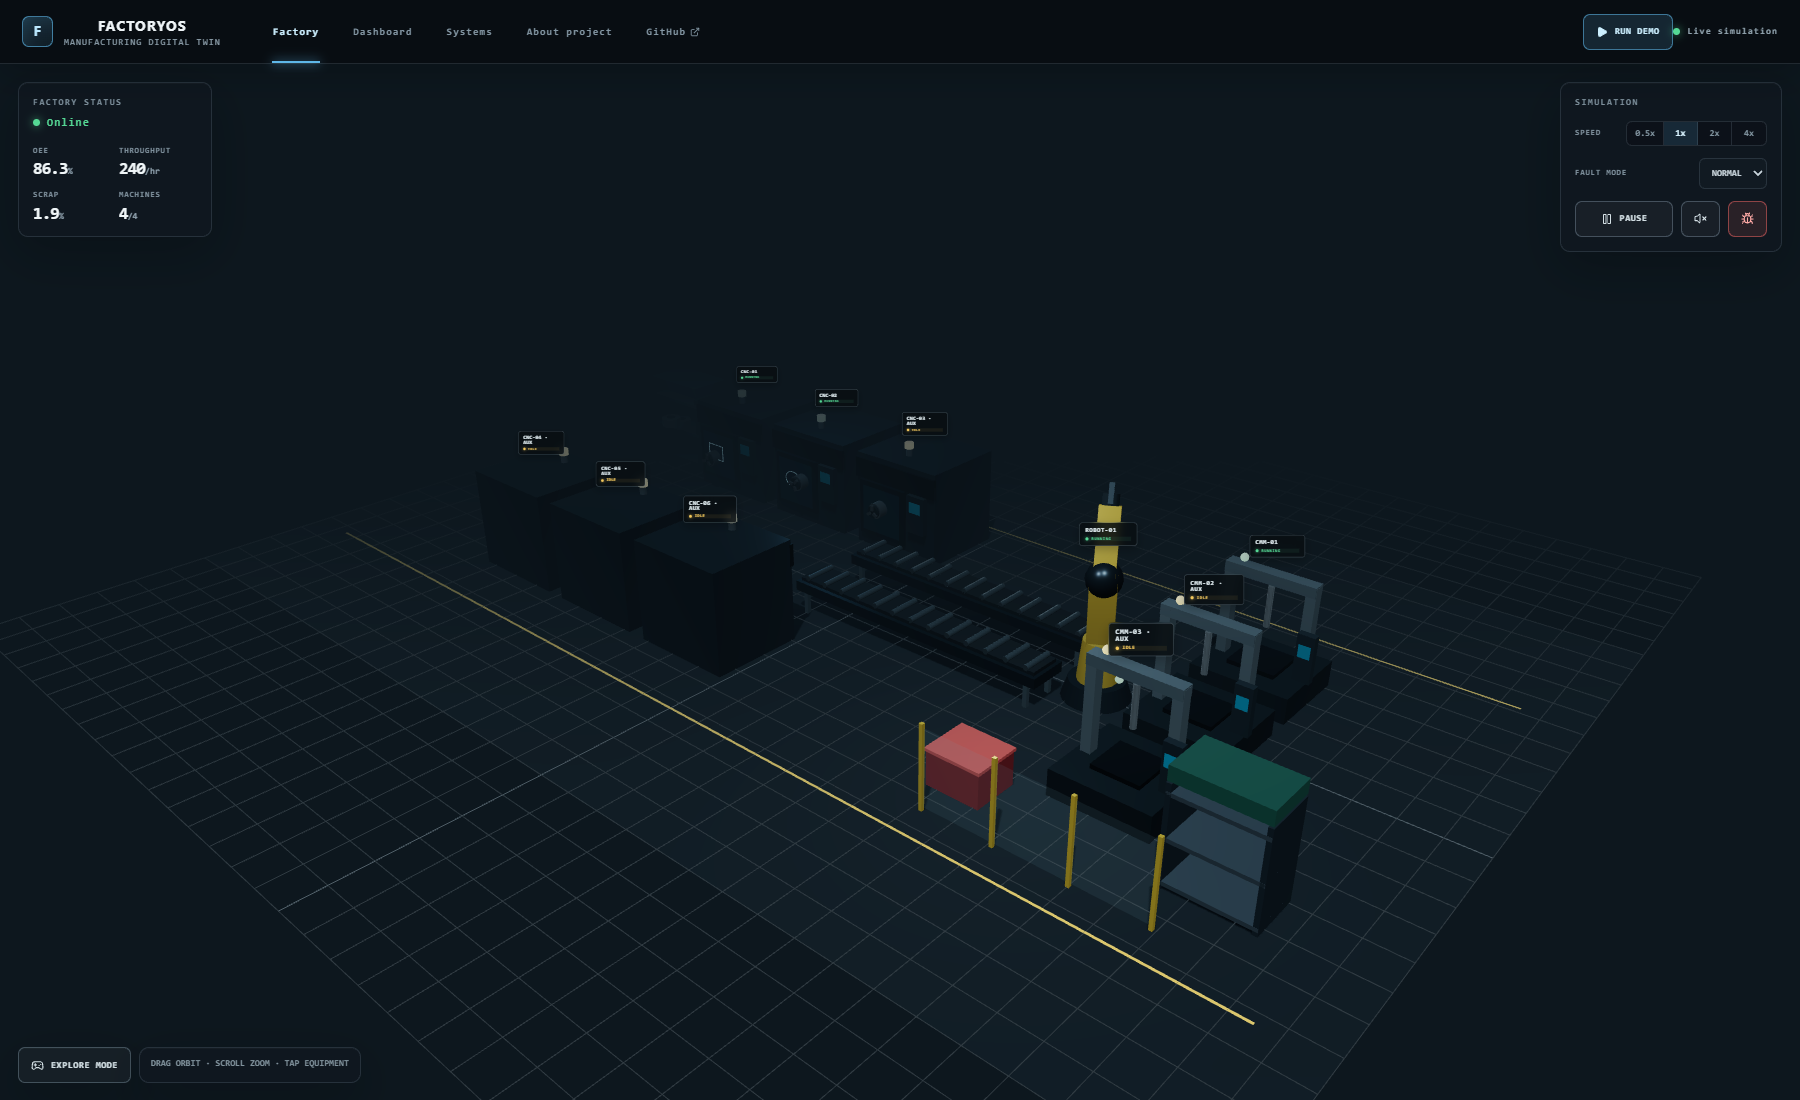
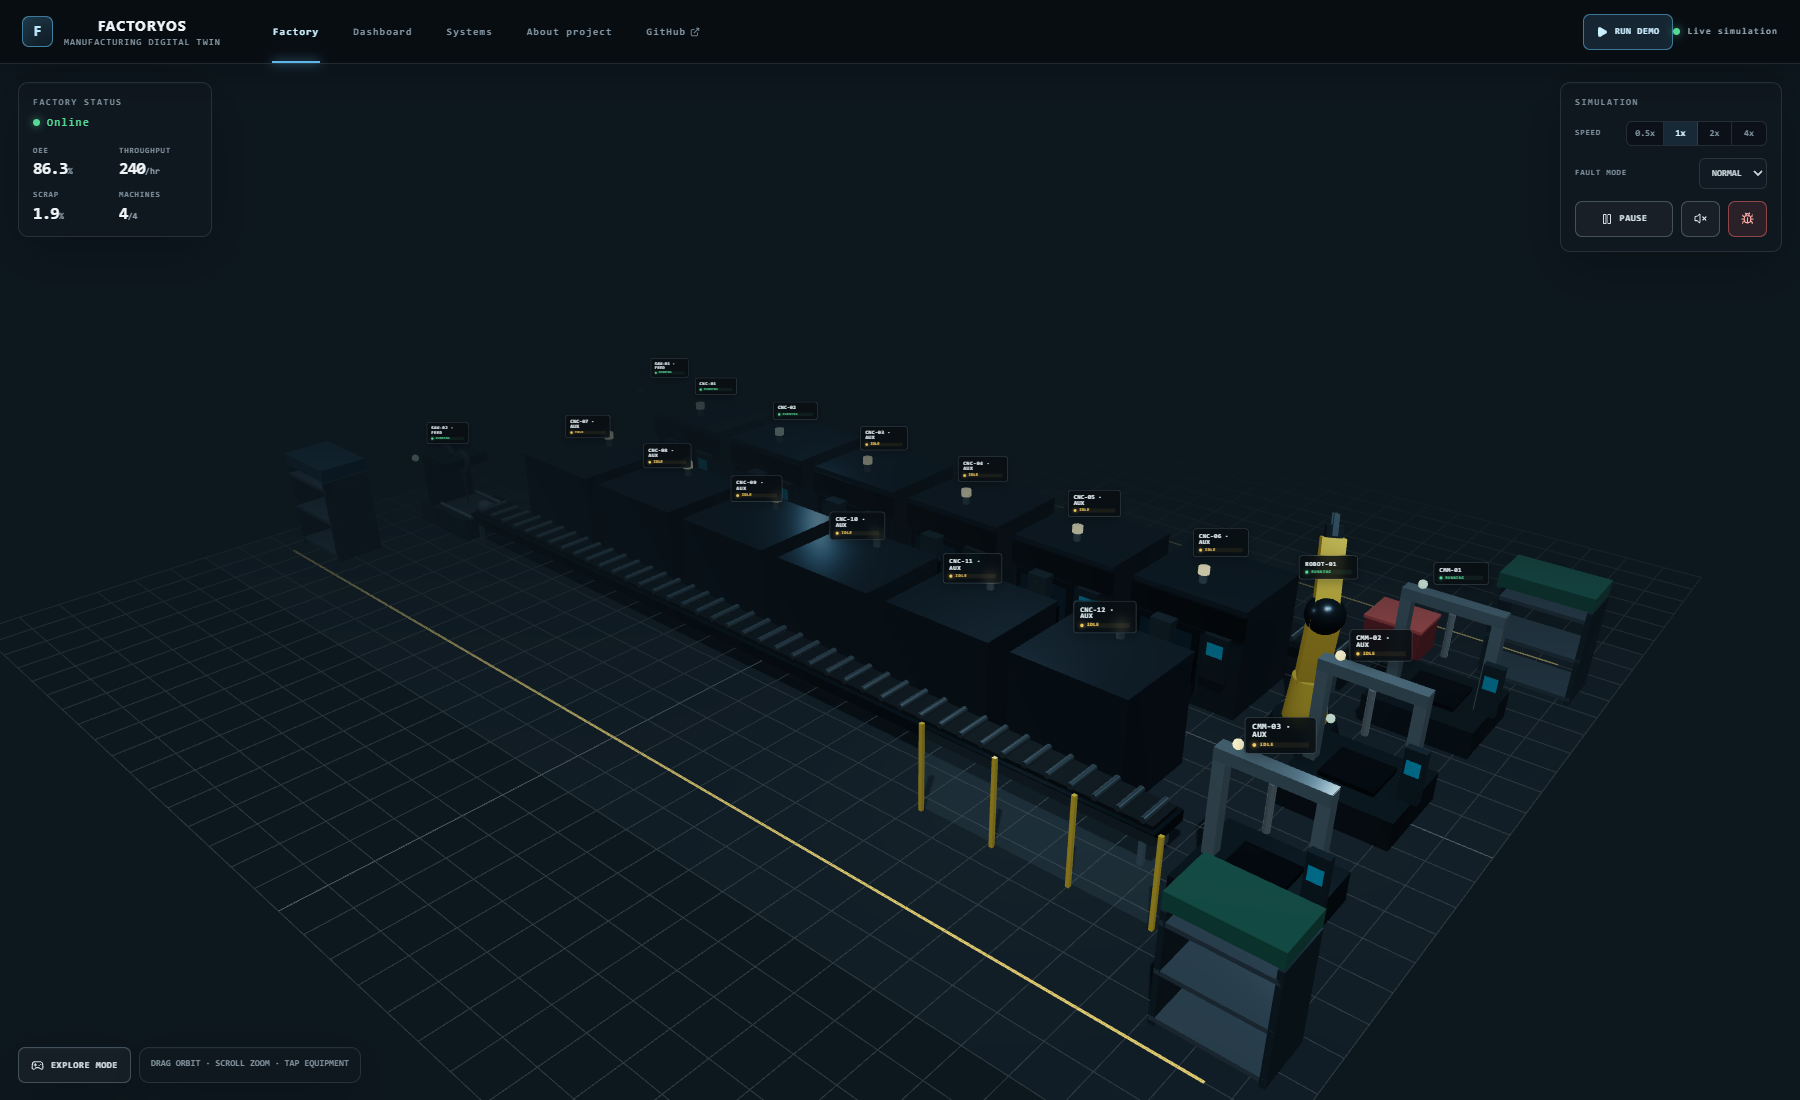
feat: arrange dual six-machine production lines

diff --git a/components/factory/CNC.tsx b/components/factory/CNC.tsx
@@ -10,13 +10,12 @@ import { useFactoryStore } from "@/store/useFactoryStore";
 import type { MachineId, MachineStatus } from "@/types/factory";
 
 const statusColor: Record<MachineStatus, string> = { RUNNING: "#42dc8b", IDLE: "#f0c555", FAULT: "#ff514b", MAINTENANCE: "#4baee7" };
-const chuckJawAngles = [0, (Math.PI * 2) / 3, (Math.PI * 4) / 3];
 const rectanglePath: [number, number, number][] = [
-  [-.77,1.13,1.575],[-.13,1.13,1.575],[-.13,1.63,1.575],[-.77,1.63,1.575],[-.77,1.13,1.575],
+  [-.77,.91,1.3],[-.13,.91,1.3],[-.13,.91,1.66],[-.77,.91,1.66],[-.77,.91,1.3],
 ];
 const circlePath: [number, number, number][] = Array.from({ length: 33 }, (_, index) => {
   const angle = (index / 32) * Math.PI * 2;
-  return [-.45 + Math.cos(angle) * .32, 1.38 + Math.sin(angle) * .25, 1.575];
+  return [-.45 + Math.cos(angle) * .32, .91, 1.48 + Math.sin(angle) * .18];
 });
 
 interface CncShellProps {
@@ -40,19 +39,19 @@ function CncShell({ label, status, position, rotationY = 0, selected = false, sp
       <mesh position={[-.44,1.25,1.39]} castShadow><boxGeometry args={[1.72,1.72,.12]} /><meshStandardMaterial color="#182329" metalness={.5} roughness={.26} /></mesh>
       <mesh position={[-.44,1.25,1.47]}><planeGeometry args={[1.42,1.42]} /><meshPhysicalMaterial color="#264655" transparent opacity={.42} roughness={.15} metalness={.2} /></mesh>
       {toolpath && <Line points={toolpath === "circle" ? circlePath : rectanglePath} color="#70d0f3" lineWidth={.8} transparent opacity={.34} />}
+      <mesh position={[-.45,.82,1.48]} castShadow><boxGeometry args={[1.08,.12,.7]} /><meshStandardMaterial color="#56656c" metalness={.78} roughness={.24} /></mesh>
+      <mesh position={[-.45,.9,1.48]}><boxGeometry args={[.72,.05,.48]} /><meshStandardMaterial color="#aab7bc" metalness={.82} roughness={.2} /></mesh>
       <mesh position={[.92,1.55,1.43]} castShadow><boxGeometry args={[.63,1.16,.18]} /><meshStandardMaterial color="#161f24" /></mesh>
       <mesh position={[.92,1.78,1.54]}><planeGeometry args={[.42,.34]} /><meshBasicMaterial color={status === "FAULT" ? "#a82e2b" : "#1b6a83"} /></mesh>
-      <group position={[-.45,1.38,1.58]}>
+      <group position={[-.45,1.68,1.48]}>
         <group ref={spindleCarriage}>
-          <group ref={spindle} userData={{ rotationAxis: "Z", assembly: "cnc-spindle" }}>
-            <mesh rotation={[Math.PI/2,0,0]} castShadow><cylinderGeometry args={[.24,.24,.35,24]} /><meshStandardMaterial color="#a7b3b8" metalness={.86} roughness={.18} /></mesh>
-            <mesh position={[0,0,.2]} rotation={[Math.PI/2,0,0]} castShadow><cylinderGeometry args={[.2,.2,.12,24]} /><meshStandardMaterial color="#64737a" metalness={.9} roughness={.15} /></mesh>
-            <mesh position={[0,0,.27]} rotation={[Math.PI/2,0,0]}><cylinderGeometry args={[.075,.075,.025,18]} /><meshStandardMaterial color="#151c20" metalness={.35} roughness={.42} /></mesh>
-            {chuckJawAngles.map((angle) => (
-              <group key={angle} position={[0,0,.27]} rotation={[0,0,angle]}>
-                <mesh position={[0,.13,0]} castShadow><boxGeometry args={[.085,.16,.085]} /><meshStandardMaterial color="#d5dde0" metalness={.92} roughness={.14} /></mesh>
-              </group>
-            ))}
+          <mesh position={[0,.25,0]} castShadow><boxGeometry args={[.56,.54,.52]} /><meshStandardMaterial color="#46555c" metalness={.68} roughness={.26} /></mesh>
+          <group ref={spindle} userData={{ rotationAxis: "Y", assembly: "vertical-cnc-spindle" }}>
+            <mesh castShadow><cylinderGeometry args={[.19,.19,.5,24]} /><meshStandardMaterial color="#a7b3b8" metalness={.9} roughness={.14} /></mesh>
+            <mesh position={[0,-.31,0]} castShadow><cylinderGeometry args={[.17,.1,.18,20]} /><meshStandardMaterial color="#69777d" metalness={.92} roughness={.12} /></mesh>
+            <mesh position={[0,-.55,0]} castShadow><cylinderGeometry args={[.055,.055,.34,12]} /><meshStandardMaterial color="#d4dde0" metalness={.94} roughness={.1} /></mesh>
+            <mesh position={[.06,-.72,0]} castShadow><boxGeometry args={[.055,.12,.04]} /><meshStandardMaterial color="#edf3f5" metalness={.9} roughness={.12} /></mesh>
+            <mesh position={[-.06,-.72,0]} castShadow><boxGeometry args={[.055,.12,.04]} /><meshStandardMaterial color="#edf3f5" metalness={.9} roughness={.12} /></mesh>
           </group>
         </group>
       </group>
@@ -77,12 +76,12 @@ export function CNC({ id, position, rotationY = 0 }: { id: Extract<MachineId, "C
 
   useFrame((_, delta) => {
     if (spindleCarriage.current) {
-      const [x,y] = cncToolpathOffset(toolpath, machine.progress);
-      spindleCarriage.current.position.set(x,y,0);
+      const [x,z] = cncToolpathOffset(toolpath, machine.progress);
+      spindleCarriage.current.position.set(x,0,z);
     }
     if (!spindle.current || paused || machine.status !== "RUNNING" || machine.telemetry.kind !== "CNC") return;
     const displayAngularVelocity = spindleDisplayAngularVelocity(machine.telemetry.spindleRpm);
-    spindle.current.rotation.z -= delta * displayAngularVelocity * speed;
+    spindle.current.rotation.y -= delta * displayAngularVelocity * speed;
   });
 
   const click = (event: ThreeEvent<MouseEvent>) => { event.stopPropagation(); select(id); };

diff --git a/components/factory/FactoryScene.tsx b/components/factory/FactoryScene.tsx
@@ -9,6 +9,7 @@ import { FactoryFloor } from "@/components/factory/FactoryFloor";
 import { InspectionStation } from "@/components/factory/InspectionStation";
 import { Part } from "@/components/factory/Part";
 import { RobotArm } from "@/components/factory/RobotArm";
+import { SawStation } from "@/components/factory/SawStation";
 import { useFactoryStore } from "@/store/useFactoryStore";
 
 function Cell() {
@@ -24,20 +25,29 @@ function Cell() {
       <directionalLight position={[4,14,7]} intensity={2.2} color="#d8f2ff" castShadow shadow-mapSize={[1024,1024]} shadow-camera-far={30} shadow-camera-left={-14} shadow-camera-right={14} shadow-camera-top={12} shadow-camera-bottom={-12} />
       <pointLight position={[-5,6,-3]} intensity={24} distance={12} color="#8fd6ff" />
       <pointLight position={[7,6,3]} intensity={20} distance={12} color="#d9efff" />
+      <pointLight position={[14,7,0]} intensity={18} distance={11} color="#bfe8ff" />
       <group onPointerMissed={() => select(null)}>
         <FactoryFloor />
-        <CNC id="CNC-01" position={[-8.9,0,-4.2]} />
-        <CNC id="CNC-02" position={[-5.3,0,-4.2]} />
-        <AuxiliaryCNC label="CNC-03" position={[-1.7,0,-4.2]} />
-        <AuxiliaryCNC label="CNC-04" position={[-8.9,0,4.2]} rotationY={Math.PI} />
-        <AuxiliaryCNC label="CNC-05" position={[-5.3,0,4.2]} rotationY={Math.PI} />
-        <AuxiliaryCNC label="CNC-06" position={[-1.7,0,4.2]} rotationY={Math.PI} />
-        <Conveyor position={[2.7,.78,-1.1]} length={8} productionLane />
-        <Conveyor position={[2.7,.78,1.1]} length={8} />
+        <CNC id="CNC-01" position={[-9,0,-2.5]} />
+        <CNC id="CNC-02" position={[-5.4,0,-2.5]} />
+        <AuxiliaryCNC label="CNC-03" position={[-1.8,0,-2.5]} />
+        <AuxiliaryCNC label="CNC-04" position={[1.8,0,-2.5]} />
+        <AuxiliaryCNC label="CNC-05" position={[5.4,0,-2.5]} />
+        <AuxiliaryCNC label="CNC-06" position={[9,0,-2.5]} />
+        <AuxiliaryCNC label="CNC-07" position={[-9,0,2.5]} rotationY={Math.PI} />
+        <AuxiliaryCNC label="CNC-08" position={[-5.4,0,2.5]} rotationY={Math.PI} />
+        <AuxiliaryCNC label="CNC-09" position={[-1.8,0,2.5]} rotationY={Math.PI} />
+        <AuxiliaryCNC label="CNC-10" position={[1.8,0,2.5]} rotationY={Math.PI} />
+        <AuxiliaryCNC label="CNC-11" position={[5.4,0,2.5]} rotationY={Math.PI} />
+        <AuxiliaryCNC label="CNC-12" position={[9,0,2.5]} rotationY={Math.PI} />
+        <Conveyor position={[0,.78,-4.4]} length={24} productionLane />
+        <Conveyor position={[0,.78,4.4]} length={24} />
+        <SawStation label="SAW-01" position={[-13.4,0,-4.4]} />
+        <SawStation label="SAW-02" position={[-13.4,0,4.4]} />
         <RobotArm />
         <InspectionStation />
-        <InspectionStation position={[10.2,0,0]} auxiliaryLabel="CMM-02" />
-        <InspectionStation position={[10.2,0,3]} auxiliaryLabel="CMM-03" />
+        <InspectionStation position={[14,0,0]} auxiliaryLabel="CMM-02" />
+        <InspectionStation position={[14,0,4.4]} auxiliaryLabel="CMM-03" />
         {parts.map((part,index) => <Part key={part.id} part={part} stackIndex={index} />)}
       </group>
       <ContactShadows position={[0,.03,0]} opacity={.32} scale={34} blur={2.8} far={8} frames={1} />

diff --git a/components/factory/SawStation.tsx b/components/factory/SawStation.tsx
@@ -1,0 +1,41 @@
+"use client";
+
+import { useRef } from "react";
+import { useFrame } from "@react-three/fiber";
+import type { Mesh } from "three";
+import { MachineLabel } from "@/components/factory/MachineLabel";
+import { useFactoryStore } from "@/store/useFactoryStore";
+
+export function SawStation({ label, position }: { label: string; position: [number, number, number] }) {
+  const paused = useFactoryStore((state) => state.paused);
+  const speed = useFactoryStore((state) => state.speed);
+  const blank = useRef<Mesh>(null);
+  const blade = useRef<Mesh>(null);
+  const phase = useRef(0);
+
+  useFrame((_, delta) => {
+    if (paused) return;
+    phase.current = (phase.current + delta * .18 * speed) % 1;
+    if (blank.current) {
+      blank.current.position.x = .15 + phase.current * 2.25;
+      blank.current.rotation.x -= delta * 1.8 * speed;
+      blank.current.visible = phase.current < .94;
+    }
+    if (blade.current) blade.current.position.y = 1.12 + Math.sin(phase.current * Math.PI * 12) * .018;
+  });
+
+  return (
+    <group position={position} userData={{ auxiliaryEquipment:true, equipmentKind:"saw-feeder" }}>
+      <mesh position={[0,.34,0]} castShadow receiveShadow><boxGeometry args={[2.5,.68,1.5]} /><meshStandardMaterial color="#35434a" metalness={.58} roughness={.38} /></mesh>
+      <mesh position={[.68,.72,0]} castShadow><boxGeometry args={[1.7,.12,1.12]} /><meshStandardMaterial color="#738087" metalness={.78} roughness={.24} /></mesh>
+      {[-.62,.62].map((z) => <mesh key={z} position={[.68,.82,z]} rotation={[0,0,Math.PI/2]}><cylinderGeometry args={[.055,.055,1.7,10]} /><meshStandardMaterial color="#a2afb4" metalness={.84} roughness={.2} /></mesh>)}
+      <mesh position={[-.62,1.4,0]} castShadow><boxGeometry args={[.26,1.75,1.42]} /><meshStandardMaterial color="#26343a" metalness={.52} roughness={.4} /></mesh>
+      <mesh position={[-.05,2.2,0]} castShadow><boxGeometry args={[1.35,.28,1.42]} /><meshStandardMaterial color="#26343a" metalness={.52} roughness={.4} /></mesh>
+      {[-.42,.42].map((x) => <mesh key={x} position={[x,2.2,.02]} rotation={[Math.PI/2,0,0]}><cylinderGeometry args={[.34,.34,.12,18]} /><meshStandardMaterial color="#56656c" metalness={.68} roughness={.28} /></mesh>)}
+      <mesh ref={blade} position={[.34,1.12,0]} castShadow><boxGeometry args={[.028,1.35,.05]} /><meshStandardMaterial color="#d0d8db" metalness={.94} roughness={.1} /></mesh>
+      <mesh ref={blank} position={[.15,.92,0]} rotation={[0,0,Math.PI/2]} castShadow><cylinderGeometry args={[.18,.18,.46,14]} /><meshStandardMaterial color="#aebbc0" metalness={.82} roughness={.22} /></mesh>
+      <mesh position={[-1.02,2.16,.78]}><sphereGeometry args={[.11,10,8]} /><meshStandardMaterial color={paused ? "#f0c555" : "#42dc8b"} emissive={paused ? "#f0c555" : "#42dc8b"} emissiveIntensity={2.2} /></mesh>
+      <MachineLabel id={`${label} · FEED`} status={paused ? "IDLE" : "RUNNING"} position={[-.25,2.95,0]} />
+    </group>
+  );
+}

diff --git a/lib/simulation/simulationEngine.ts b/lib/simulation/simulationEngine.ts
@@ -3,14 +3,14 @@ import type { Part, StationId } from "@/types/factory";
 export type FactoryPosition = [number, number, number];
 
 const POSITIONS: Record<StationId, FactoryPosition> = {
-  RAW: [-12.4, 1.2, -4.2],
-  "CNC-01": [-8.9, 1.2, -4.2],
-  "CNC-02": [-5.3, 1.2, -4.2],
-  CONVEYOR: [2.7, 1.15, -1.1],
-  "ROBOT-01": [7.4, 1.2, 0],
-  "CMM-01": [10.2, 1.1, -3],
-  FINISHED: [13.4, 1.3, 4.6],
-  REJECT: [7.4, 0.75, 5],
+  RAW: [-14.8, 1.2, -7.8],
+  "CNC-01": [-9, 1.2, -2.5],
+  "CNC-02": [-5.4, 1.2, -2.5],
+  CONVEYOR: [0, 1.15, -4.4],
+  "ROBOT-01": [12, 1.2, -1.7],
+  "CMM-01": [14, 1.1, -4.4],
+  FINISHED: [15.2, 1.3, -7.8],
+  REJECT: [12, 0.75, -7.2],
 };
 
 const lerp = (a: number, b: number, t: number) => a + (b - a) * t;
@@ -26,14 +26,14 @@ export function getPartPosition(part: Part, stackIndex = 0): FactoryPosition {
     case "RAW":
       return [POSITIONS.RAW[0], POSITIONS.RAW[1] + stackIndex * 0.18, POSITIONS.RAW[2] + (stackIndex % 3) * 0.45];
     case "CNC-01":
-      return mix(POSITIONS["CNC-01"], [-7.7, 1.2, -4.2], t);
+      return mix(POSITIONS["CNC-01"], [-7.8, 1.2, -2.5], t);
     case "CNC-02":
-      return mix(POSITIONS["CNC-02"], [-4.1, 1.2, -4.2], t);
+      return mix(POSITIONS["CNC-02"], [-4.2, 1.2, -2.5], t);
     case "CONVEYOR":
-      return mix([-1.25, 1.15, -1.1], [6.65, 1.15, -1.1], t);
+      return mix([-3.7, 1.15, -4.4], [11.6, 1.15, -4.4], t);
     case "ROBOT-01": {
       const lift = Math.sin(t * Math.PI) * 1.8;
-      const p = mix([6.65, 1.15, -1.1], [9.5, 1.25, -2.6], t);
+      const p = mix([11.6, 1.15, -4.4], [13.4, 1.25, -4.4], t);
       return [p[0], p[1] + lift, p[2]];
     }
     case "CMM-01":

diff --git a/components/factory/FactoryFloor.tsx b/components/factory/FactoryFloor.tsx
@@ -20,15 +20,17 @@ export function FactoryFloor() {
         <meshStandardMaterial color="#20282d" roughness={0.8} metalness={0.08} />
       </mesh>
       <gridHelper args={[34, 34, "#52616a", "#303b42"]} position={[0, 0.012, 0]} />
-      <mesh rotation={[-Math.PI / 2, 0, 0]} position={[0, .02, -6.2]}>
+      <mesh rotation={[-Math.PI / 2, 0, 0]} position={[0, .02, -9]}>
         <planeGeometry args={[31, .07]} /><meshBasicMaterial color="#e2bd52" />
       </mesh>
-      <mesh rotation={[-Math.PI / 2, 0, 0]} position={[0, .02, 7.3]}>
+      <mesh rotation={[-Math.PI / 2, 0, 0]} position={[0, .02, 9]}>
         <planeGeometry args={[31, .07]} /><meshBasicMaterial color="#e2bd52" />
       </mesh>
-      <Rack position={[-12.4, 0, -4.2]} />
-      <Rack position={[13.4, 0, 4.6]} finished />
-      <group position={[7.4, 0, 5]}>
+      <Rack position={[-14.8, 0, -7.8]} />
+      <Rack position={[-14.8, 0, 7.8]} />
+      <Rack position={[15.2, 0, -7.8]} finished />
+      <Rack position={[15.2, 0, 7.8]} finished />
+      <group position={[12, 0, -7.2]}>
         <mesh position={[0,.45,0]} castShadow><boxGeometry args={[1.45,.9,1.25]} /><meshStandardMaterial color="#7c2e2e" roughness={.65} /></mesh>
         <mesh position={[0,.94,0]}><boxGeometry args={[1.52,.08,1.32]} /><meshStandardMaterial color="#b54d48" /></mesh>
       </group>

diff --git a/lib/simulation/kinematics.test.ts b/lib/simulation/kinematics.test.ts
@@ -1,6 +1,7 @@
 import { describe, expect, it } from "vitest";
 import {
   cncToolpathOffset,
+  CNC_SPINDLE_AXIS,
   CONVEYOR_PATH_AXIS,
   CONVEYOR_ROLLER_AXIS,
   conveyorRollerAngleDelta,
@@ -8,6 +9,10 @@ import {
 } from "@/lib/simulation/kinematics";
 
 describe("factory kinematics", () => {
+  it("orients the CNC spindle vertically toward the workpiece", () => {
+    expect(CNC_SPINDLE_AXIS).toEqual([0, -1, 0]);
+  });
+
   it("keeps the conveyor roller shaft on local Z, perpendicular to local X travel", () => {
     const dot = CONVEYOR_PATH_AXIS[0] * CONVEYOR_ROLLER_AXIS[0]
       + CONVEYOR_PATH_AXIS[1] * CONVEYOR_ROLLER_AXIS[1]
@@ -30,7 +35,7 @@ describe("factory kinematics", () => {
     expect(cncToolpathOffset("rectangle", 75)).toEqual([-.32, .25]);
   });
 
-  it("traverses the cardinal points of the elliptical CNC toolpath", () => {
+  it("traverses the cardinal points of the horizontal elliptical CNC toolpath", () => {
     const points = [0,25,50,75].map((progress) => cncToolpathOffset("circle", progress));
     expect(points[0]).toEqual([.32, 0]);
     expect(points[1][0]).toBeCloseTo(0, 10);

diff --git a/components/factory/RobotArm.tsx b/components/factory/RobotArm.tsx
@@ -23,7 +23,7 @@ export function RobotArm() {
   });
   const click = (event: ThreeEvent<MouseEvent>) => { event.stopPropagation(); select("ROBOT-01"); };
   return (
-    <group position={[7.4,0,0]} onClick={click} userData={{ machineId:"ROBOT-01" }}>
+    <group position={[12,0,-1.7]} onClick={click} userData={{ machineId:"ROBOT-01" }}>
       <mesh position={[0,.25,0]} castShadow><cylinderGeometry args={[.72,.88,.5,20]} /><meshStandardMaterial color="#313d44" metalness={.65} roughness={.34} /></mesh>
       <group ref={base} position={[0,.48,0]}>
         <mesh position={[0,.55,0]} castShadow><cylinderGeometry args={[.42,.52,1.1,16]} /><meshStandardMaterial color="#d2a934" metalness={.45} roughness={.36} /></mesh>

diff --git a/components/factory/InspectionStation.tsx b/components/factory/InspectionStation.tsx
@@ -14,7 +14,7 @@ interface InspectionStationProps {
   auxiliaryLabel?: string;
 }
 
-export function InspectionStation({ position = [10.2,0,-3], auxiliaryLabel }: InspectionStationProps) {
+export function InspectionStation({ position = [14,0,-4.4], auxiliaryLabel }: InspectionStationProps) {
   const machine = useFactoryStore((state) => state.machines["CMM-01"]);
   const selected = useFactoryStore((state) => !auxiliaryLabel && state.selectedMachineId === "CMM-01");
   const select = useFactoryStore((state) => state.selectMachine);

diff --git a/lib/simulation/kinematics.ts b/lib/simulation/kinematics.ts
@@ -2,6 +2,7 @@ export type CncToolpath = "rectangle" | "circle";
 
 export const CONVEYOR_PATH_AXIS = [1, 0, 0] as const;
 export const CONVEYOR_ROLLER_AXIS = [0, 0, 1] as const;
+export const CNC_SPINDLE_AXIS = [0, -1, 0] as const;
 
 export function conveyorRollerAngleDelta(deltaSeconds: number, simulationSpeed: number): number {
   return -deltaSeconds * 2.4 * simulationSpeed;

diff --git a/README.md b/README.md
@@ -14,8 +14,8 @@ FactoryOS is a portfolio-grade manufacturing cell simulator that connects an int
 
 ## Features
 
-- Procedural low-poly factory with opposing CNC banks, two conveyors, a robot, a three-station CMM area, material racks, and reject handling
-- Two instrumented CNCs with modeled three-jaw spindle chucks and rectangular/circular machining paths; auxiliary equipment is clearly labeled and excluded from KPIs
+- Procedural low-poly factory with two six-machine CNC lines, rear outfeed conveyors, animated saw feeders, a robot, a three-station CMM area, material racks, and reject handling
+- Two instrumented CNCs with modeled vertical spindle cartridges, downward cutters, and rectangular/circular X–Z machining paths; auxiliary equipment is clearly labeled and excluded from KPIs
 - Z-axis conveyor rollers with visible witness marks and playback-speed-synchronized motion
 - Traceable workpieces moving through a capacity-constrained production process
 - Live spindle, robot, and inspection telemetry with smooth signal changes
